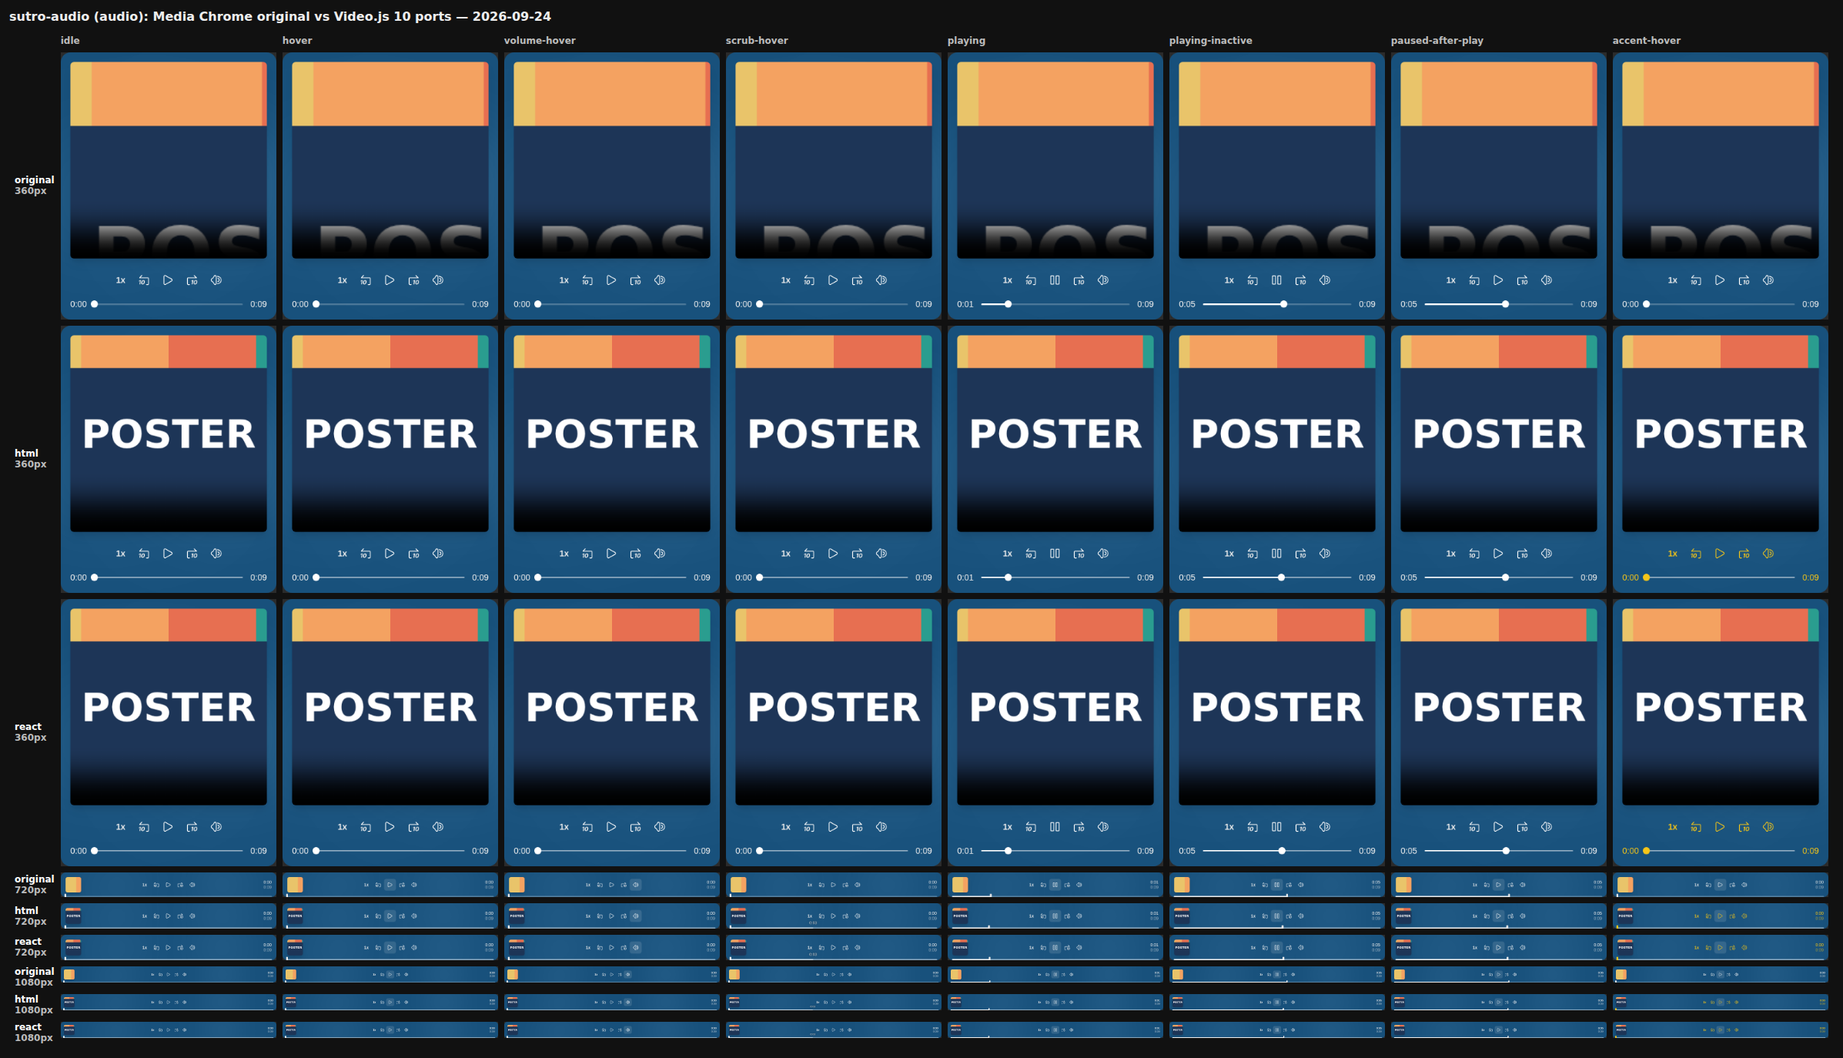
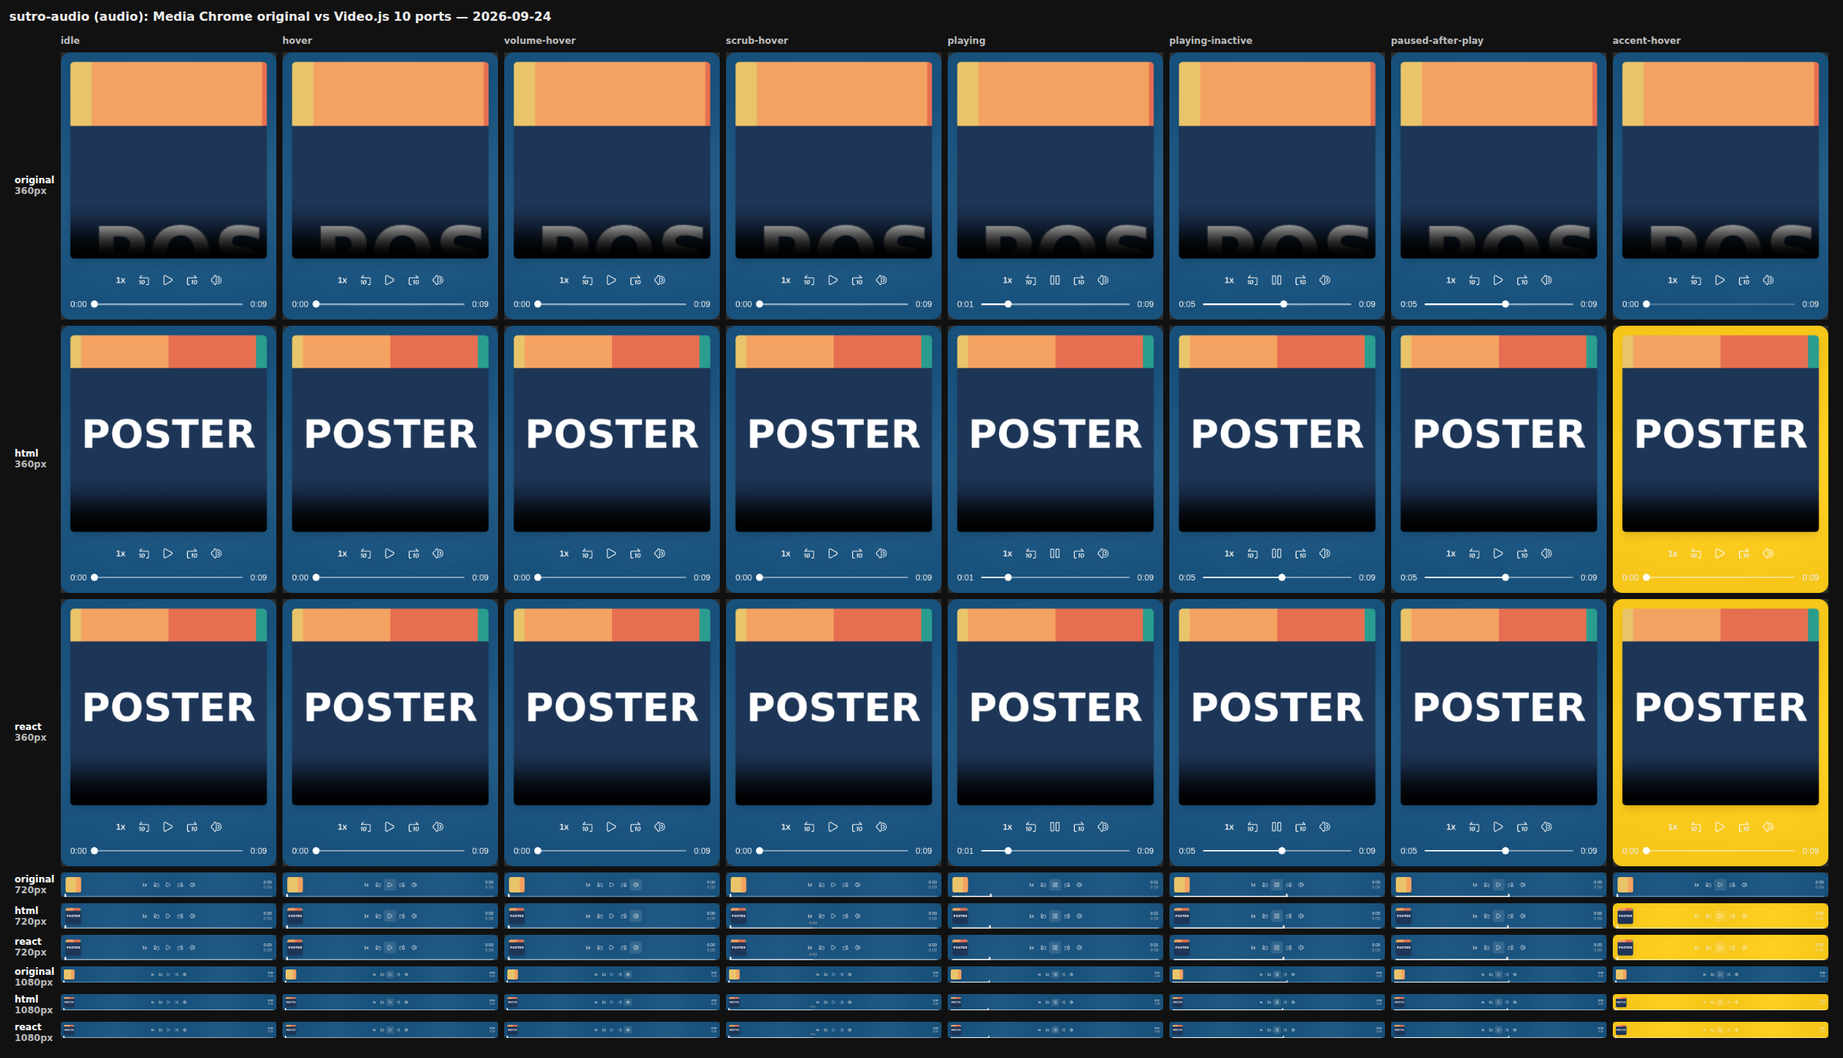
feat(skins): classic theming tokens for halloween, sutro-audio, and tailwind-audio
Each skin reads --media-primary-color, --media-secondary-color, and
--media-accent-color the way its Media Chrome original did, and routes its
brand surface through a private property that --media-accent-color
overrides: the pumpkin body, the sutro-audio card, and the tailwind-audio
scrubber. READMEs gain a Theming table; tests cover the declarations; the
sutro-audio title and byline conditionals are ported.

Claude-Session: https://claude.ai/code/session_013nkm8P1pMuWAvcF5HRNA15

Changed region(s): [[0.8655, 0.3057, 1.0, 0.8253], [0.8655, 0.8559, 1.0, 1.0]]

diff --git a/skins/sutro-audio/src/skin.css b/skins/sutro-audio/src/skin.css
@@ -7,20 +7,26 @@
  * - every rule is scoped under `.ps-sutro-audio` so several skins can share a page;
  * - media is matched twice, as a light-DOM child (React) and as slotted content (HTML);
  * - state comes from the data attributes the Video.js primitives reflect, never from tag names;
- * - `--media-accent-color` is the public theming token; the theme's own colours are the fallbacks.
+ * - `--media-accent-color` recolours the card, the theme's brand blue (ahead of `--media-secondary-color`, the token the
+ *   original read for it); `--media-primary-color` and `--media-text-color` keep the original's roles.
  *
  * Sizes come from the original's `--base: 20px` scale and media-chrome's control styles: 40px buttons and 40px bar,
  * 14px bold button text, 14px times, 13px preview time, 16px card radius, 16px padding.
  */
 
 .ps-sutro-audio {
-  /* Public tokens first, then the theme's own defaults as fallbacks. */
-  --ps-primary: var(--media-accent-color, var(--media-primary-color, #fff));
-  --ps-text: var(--media-accent-color, var(--media-text-color, var(--media-primary-color, rgb(238 238 238))));
-  --ps-range: var(--media-accent-color, var(--media-primary-color, rgb(238 238 238)));
-  /* The small scrubber's white is its own, not the primary colour; only the accent overrides it. */
-  --ps-small-range: var(--media-accent-color, #fff);
-  --ps-secondary: var(--media-secondary-color, #17507b);
+  /*
+   * The theme's brand colour: the deep-blue card. The original coloured it with `--media-secondary-color`; the accent
+   * goes first so one colour re-themes the skin.
+   */
+  --ps-brand: var(--media-accent-color, var(--media-secondary-color, #17507b));
+  /* The original's icon and title colour. */
+  --ps-primary: var(--media-primary-color, #fff);
+  /* media-chrome's text (times, rate, preview) and default range colour, with its own #eee fallback. */
+  --ps-text: var(--media-text-color, var(--media-primary-color, rgb(238 238 238)));
+  --ps-range: var(--media-primary-color, rgb(238 238 238));
+  /* The small scrubber's fill and thumb: fixed white in the original, not the primary colour. */
+  --ps-small-range: #fff;
   --ps-font-family: var(--media-font-family, Roboto, "helvetica neue", "segoe ui", arial, sans-serif);
   --ps-base: 20px;
   --ps-focus-ring: inset 0 0 0 2px rgb(27 127 204 / 0.9);
@@ -37,7 +43,7 @@
   /* A dark card in any page scheme: native parts (focus, form controls) follow it, not the page. */
   color-scheme: dark;
   border-radius: var(--media-border-radius, 16px);
-  background: var(--ps-secondary);
+  background: var(--ps-brand);
   color: var(--ps-text);
   font-family: Roboto, Arial, sans-serif;
   font-size: calc(0.75 * var(--ps-base));

diff --git a/skins/halloween/src/skin.css b/skins/halloween/src/skin.css
@@ -7,7 +7,8 @@
  * - every rule is scoped under `.ps-halloween`, through `:where()` so the scope adds no specificity;
  * - media is matched twice, as a light-DOM child (React) and as slotted content (HTML);
  * - state comes from the data attributes the Video.js primitives reflect, never from tag names;
- * - `--media-accent-color` is the public theming token; the theme's own colours are the fallbacks.
+ * - `--media-accent-color` is the public theming token: it recolours the pumpkin (the theme's brand orange) and the
+ *   spun web; the theme's own colours are the fallbacks.
  *
  * Sizes come from the media-chrome theme and the media-chrome element defaults it inherits: a 44px bar, 14px buttons
  * (17px from 384px) with 10px padding, a 50px cobweb track inset 30px either side, and an 80 × 24px volume range with
@@ -15,6 +16,11 @@
  */
 
 .ps-halloween {
+  /*
+   * The theme's brand colour, the pumpkin's orange (the artwork's `fill="#FF8000"`). The original never let a token
+   * reach it; the accent does here, so one colour re-themes the skin.
+   */
+  --ps-brand: var(--media-accent-color, #ff8000);
   /* The theme's `--_primary-color`: the carved face, and the text colour of the theme's host. */
   --ps-primary: var(--media-primary-color, #000);
   /*
@@ -192,6 +198,11 @@
   height: 5em;
   fill: var(--ps-primary);
   transform: translateY(-0.5em);
+}
+
+/* Outranks the path's own `fill="#FF8000"`, which stays as the no-stylesheet fallback. */
+:where(.ps-halloween) .ps-pumpkin-body {
+  fill: var(--ps-brand);
 }
 
 :where(.ps-halloween) .ps-icon-play,

diff --git a/skins/halloween/src/react/index.tsx b/skins/halloween/src/react/index.tsx
@@ -94,6 +94,7 @@ export function HalloweenSkin({ children, className, ...rest }: HalloweenSkinPro
               >
                 <g>
                   <path
+                    className="ps-pumpkin-body"
                     fill="#FF8000"
                     fillRule="evenodd"
                     d="M21.252 11.127c-2.784.412-6.001 1.646-7.288 2.816-1.761 1.603-3.986 4.736-5.337 7.51-.653 1.36-.717 1.35-.41-.053.505-2.278 1.412-4.04 3.322-6.476.442-.57.833-1.15.864-1.297.275-1.076-2.658-.844-5.178.411-2.932 1.466-5.369 4.42-6.54 7.921C.18 23.478 0 24.669 0 26.463c0 5.811 1.888 11.517 4.862 14.702.95 1.013 1.74 1.635 2.869 2.226 1.086.57 1.898.843 3.154 1.065.759.126 1.096.242 1.518.517 2.331 1.518 5.274 2.183 8.3 1.856 1.056-.116 1.214-.105 2.058.105 1.023.254 1.909.232 2.794-.073.422-.148.644-.148 1.55-.053 1.446.158 2.353.148 3.682-.053 1.74-.253 3.407-.875 4.799-1.782.422-.275.76-.39 1.519-.517 3.765-.644 6.58-2.995 8.553-7.14 1.54-3.249 2.331-6.93 2.342-10.853.01-1.846-.2-3.112-.76-4.715-1.17-3.301-3.596-6.254-6.244-7.583-.896-.454-2.32-.802-3.111-.76l-.601.032.58.306c1.234.643 2.363 2.204 2.995 4.124.623 1.845 1.023 4.651 1.002 6.898l-.01 1.223-.148-1.181c-.169-1.382-.58-3.301-.96-4.451-.358-1.076-1.17-2.785-1.73-3.607-1.054-1.582-2.89-3.112-4.535-3.797-.843-.348-1.867-.623-2.352-.623h-.295l.327.37c.76.864 1.371 2.731 1.635 5.01l.074.58-.338-.58c-1.519-2.637-2.848-4.082-4.767-5.2-1.783-1.034-3.017-1.35-5.4-1.392-.981-.022-1.93-.01-2.11.01ZM19 27.6a4 4 0 1 1-8 0 4 4 0 0 1 8 0Zm14.5 3.1a4.1 4.1 0 1 0 0-8.2 4.1 4.1 0 0 0 0 8.2Z"

diff --git a/skins/halloween/src/html/template.html b/skins/halloween/src/html/template.html
@@ -41,6 +41,7 @@
           <svg class="ps-icon ps-pumpkin" aria-hidden="true" width="48" height="48" fill="none" viewBox="0 0 48 48">
             <g>
               <path
+                class="ps-pumpkin-body"
                 fill="#FF8000"
                 fill-rule="evenodd"
                 d="M21.252 11.127c-2.784.412-6.001 1.646-7.288 2.816-1.761 1.603-3.986 4.736-5.337 7.51-.653 1.36-.717 1.35-.41-.053.505-2.278 1.412-4.04 3.322-6.476.442-.57.833-1.15.864-1.297.275-1.076-2.658-.844-5.178.411-2.932 1.466-5.369 4.42-6.54 7.921C.18 23.478 0 24.669 0 26.463c0 5.811 1.888 11.517 4.862 14.702.95 1.013 1.74 1.635 2.869 2.226 1.086.57 1.898.843 3.154 1.065.759.126 1.096.242 1.518.517 2.331 1.518 5.274 2.183 8.3 1.856 1.056-.116 1.214-.105 2.058.105 1.023.254 1.909.232 2.794-.073.422-.148.644-.148 1.55-.053 1.446.158 2.353.148 3.682-.053 1.74-.253 3.407-.875 4.799-1.782.422-.275.76-.39 1.519-.517 3.765-.644 6.58-2.995 8.553-7.14 1.54-3.249 2.331-6.93 2.342-10.853.01-1.846-.2-3.112-.76-4.715-1.17-3.301-3.596-6.254-6.244-7.583-.896-.454-2.32-.802-3.111-.76l-.601.032.58.306c1.234.643 2.363 2.204 2.995 4.124.623 1.845 1.023 4.651 1.002 6.898l-.01 1.223-.148-1.181c-.169-1.382-.58-3.301-.96-4.451-.358-1.076-1.17-2.785-1.73-3.607-1.054-1.582-2.89-3.112-4.535-3.797-.843-.348-1.867-.623-2.352-.623h-.295l.327.37c.76.864 1.371 2.731 1.635 5.01l.074.58-.338-.58c-1.519-2.637-2.848-4.082-4.767-5.2-1.783-1.034-3.017-1.35-5.4-1.392-.981-.022-1.93-.01-2.11.01ZM19 27.6a4 4 0 1 1-8 0 4 4 0 0 1 8 0Zm14.5 3.1a4.1 4.1 0 1 0 0-8.2 4.1 4.1 0 0 0 0 8.2Z"

diff --git a/skins/halloween/tests/skin.test.ts b/skins/halloween/tests/skin.test.ts
@@ -91,6 +91,14 @@ describe('skin.css', () => {
     expect(css).toContain('var(--media-accent-color');
   });
 
+  it('declares the brand orange on the root from the accent token and paints the pumpkin with it', () => {
+    const rootRule = css.match(/^\.ps-halloween \{([\s\S]*?)^\}/m)?.[1] ?? '';
+
+    expect(rootRule).toMatch(/--ps-brand:\s*var\(--media-accent-color,\s*#ff8000\);/);
+    expect(css).toMatch(/\.ps-pumpkin-body \{\s*fill: var\(--ps-brand\);/);
+    expect(template).toContain('class="ps-pumpkin-body"');
+  });
+
   it('styles the media both as a light-DOM child and as slotted content', () => {
     expect(css).toContain('.ps-halloween > video');
     expect(css).toContain('.ps-halloween ::slotted(video)');

diff --git a/skins/tailwind-audio/src/skin.css b/skins/tailwind-audio/src/skin.css
@@ -22,8 +22,12 @@
  */
 
 .ps-tailwind-audio {
-  /* Public tokens first, then the theme's own defaults as fallbacks. */
+  /*
+   * The theme's brand colour, the indigo scrubber fill and thumb. The original already routed it through the accent
+   * (its Tailwind `accent` colour), so this is the original's own token and default.
+   */
   --ps-accent: var(--media-accent-color, rgb(79 70 229));
+  /* The bar and the thumb ring: the Tailwind `secondary` colour and the ranges' own ring default. */
   --ps-secondary: var(--media-secondary-color, #fff);
   --ps-thumb-ring: var(--media-secondary-color, rgb(255 255 255 / 0.9));
   --ps-font-family: var(--media-font-family, "helvetica neue", "segoe ui", roboto, arial, sans-serif);

diff --git a/skins/sutro-audio/tests/skin.test.ts b/skins/sutro-audio/tests/skin.test.ts
@@ -76,6 +76,13 @@ describe('skin.css', () => {
     expect(css).toContain('var(--media-accent-color');
   });
 
+  it('declares the brand blue on the root from the accent token and paints the card with it', () => {
+    const rootRule = css.match(/^\.ps-sutro-audio \{([\s\S]*?)^\}/m)?.[1] ?? '';
+
+    expect(rootRule).toMatch(/--ps-brand:\s*var\(--media-accent-color,\s*var\(--media-secondary-color,\s*#17507b\)\);/);
+    expect(rootRule).toMatch(/background:\s*var\(--ps-brand\);/);
+  });
+
   it('styles the media both as a light-DOM child and as slotted content', () => {
     expect(css).toContain('.ps-sutro-audio > audio');
     expect(css).toContain('.ps-sutro-audio ::slotted(audio)');

diff --git a/skins/tailwind-audio/tests/skin.test.ts b/skins/tailwind-audio/tests/skin.test.ts
@@ -76,6 +76,12 @@ describe('skin.css', () => {
     expect(css).toContain('var(--media-accent-color');
   });
 
+  it('declares the brand indigo on the root from the accent token', () => {
+    const rootRule = css.match(/^\.ps-tailwind-audio \{([\s\S]*?)^\}/m)?.[1] ?? '';
+
+    expect(rootRule).toMatch(/--ps-accent:\s*var\(--media-accent-color,\s*rgb\(79 70 229\)\);/);
+  });
+
   it('ships plain CSS, with no Tailwind directives or utility class names left over', () => {
     expect(css).not.toMatch(/@(?:tailwind|apply|config|layer|theme|source)\b/);
     expect(css).not.toMatch(/--tw-/);

diff --git a/docs/porting/friction/sutro-audio.md b/docs/porting/friction/sutro-audio.md
@@ -186,3 +186,56 @@ React rows are identical to each other within timing noise. The artwork box diff
 ## Proposed best-practice additions
 
 Merged into [best-practices.md](../best-practices.md) on 2026-09-24.
+
+## Round 2
+
+Date: 2026-09-24. Composite regenerated: [`../screens/sutro-audio.png`](../screens/sutro-audio.png).
+
+### Tokens
+
+| Token | Surface | Default | Original |
+| --- | --- | --- | --- |
+| `--media-accent-color` | Card background (`--ps-brand`) | `#17507b` (through `--media-secondary-color`) | Never read |
+| `--media-secondary-color` | Card background | `#17507b` | Same |
+| `--media-primary-color` | Icon strokes, title, byline (`#fff`); times, rate, wide scrubber fill and thumb, preview time (`rgb(238 238 238)`) | as listed | Same (the second group through media-chrome's defaults) |
+| `--media-text-color` | Times, rate, preview time, seek numbers | `rgb(238 238 238)` | Same (media-chrome's text) |
+| `--media-font-family` | Buttons, times, title, byline | `Roboto, "helvetica neue", "segoe ui", arial, sans-serif` | Same |
+| `--media-border-radius`, `--media-object-position` | Card corners; artwork crop | `16px`; `center` | Port-only knobs (the original fixed 16px) |
+
+The theme's dominant brand colour is the deep-blue card, so the root declares `--ps-brand: var(--media-accent-color,
+var(--media-secondary-color, #17507b))` and paints the card with it. This **replaces the round-1 mapping**, which put
+the accent in front of the primary colour (icons, title, times, both scrubbers). The two cannot share one colour: an
+accent card with accent icons would draw the icons in the card's own colour. Icons and text therefore go back to the
+original's `--media-primary-color` / `--media-text-color` roles, and the small scrubber's fill and thumb go back to
+the original's fixed white. The trade-off: a light accent (the harness's `#f5c518`) gives white icons low contrast. The
+README tells users to pick a dark enough colour or set `--media-primary-color` as well. Setting
+`--media-secondary-color` alone is unchanged from the original.
+
+Verified: the `accent-hover` column shows a `#f5c518` card in both ports (the original stays blue, since it never read
+the accent). A scratch page (`scratchpad/accent/`, `--media-accent-color: #8a2be2`) showed a purple card at 1010px (row
+layout) and 360px (stacked). Blobs, gradient, icons and scrubbers were unchanged, in the HTML edition.
+
+### Template conditionals
+
+| Branch | Port |
+| --- | --- |
+| `<template if="mediatitle">` → `h1.title` | Ported: `media-title` / `Title` render nothing when the player has no `content-title` / `title` (React `Title` returns `null` while `hidden`). |
+| `<template if="mediabyline">` → `h2.byline` | Ported: the HTML `byline` slot is empty without slotted content; React renders `.ps-byline` only when the `byline` prop is set. |
+
+Checked on the scratch page without `content-title` or a byline: the text block is empty and the rest of the layout
+matches the titled card, as in the original, where the `.info-text` wrapper and its padding stay.
+
+### Reduced motion
+
+The original has no `prefers-reduced-motion` guard on the play bounce, pause squash, mute wipe or its transitions, and
+the port has none (parity).
+
+### Scope cuts
+
+None new. The controller attributes stay out, as in round 1.
+
+### New v10 gaps
+
+None. The round-1 upstream items (byline metadata, poster as persistent artwork, configurable rates, slider pointer
+highlight) still stand.
+

diff --git a/docs/porting/friction/halloween.md b/docs/porting/friction/halloween.md
@@ -152,3 +152,43 @@ Inventory of `template.html`:
 ## Proposed best-practice additions
 
 Merged into [best-practices.md](../best-practices.md) on 2026-09-24.
+
+## Round 2
+
+Date: 2026-09-24. Composite regenerated: [`../screens/halloween.png`](../screens/halloween.png).
+
+### Tokens
+
+| Token | Surface | Default | Original |
+| --- | --- | --- | --- |
+| `--media-accent-color` | Pumpkin body (`--ps-brand`, `.ps-pumpkin-body`) | `#ff8000` | Never consulted; the artwork's `fill="#FF8000"` was fixed |
+| `--media-accent-color` | Spun (played) web (`--ps-accent`, mask over the original SVG) | `#fff` | Read into `--_accent-color` (`#fff`), never used |
+| `--media-primary-color` | Carved face while paused; preview time (under `--media-text-color`) | `#000`; `rgb(238 238 238)` | Same |
+| `--media-text-color` | Preview time | `rgb(238 238 238)` | Same (media-chrome's text displays) |
+| `--media-secondary-color` | Nothing | none | Fed `--media-preview-time-background`, which the theme overrode to transparent on the next line |
+| `--media-font-family`, `--media-border-radius`, `--media-object-fit`, `--media-object-position` | Preview time; corners; media and poster fit | media-chrome defaults | Same |
+
+The brand colour is the pumpkin's orange, declared once on the root as `--ps-brand: var(--media-accent-color,
+#ff8000)`. The pumpkin path keeps its `fill="#FF8000"` attribute (the look without the stylesheet) and a class rule
+outranks it. The round-1 wiring of the accent to the spun web stays: the original's own `#fff` accent default is the
+web's white, so an unset accent renders exactly as before. Set, one colour now recolours both the pumpkin and the web.
+The stem (`#0bb037`), lit face (`#ffe194`), wax, flame and glow (`#ffb319`, `#f88f01`) stay fixed artwork. The composite's
+`accent-hover` column shows the pumpkin in `#f5c518` in both ports and orange in the original, which is the intended
+difference. A scratch page (`scratchpad/accent/`, `--media-accent-color: #8a2be2`, seeked to 4s) showed a purple
+pumpkin and purple spun web, with everything else unchanged.
+
+### Template conditionals and reduced motion
+
+- No `<template if>` branches in the original, so no scope cuts.
+- Reduced motion: the original has no `prefers-reduced-motion` guard on `spider-walk`, `candle-anim` or its
+  transitions; the port has none either (parity, as the README says).
+
+### Scope cuts
+
+None new. The controller attributes (`defaultsubtitles`, `defaultduration`, `gesturesdisabled`, `hotkeys`,
+`nohotkeys`) stay out, as in round 1.
+
+### New v10 gaps
+
+None. Recolouring inline SVG artwork needs only a class on the path, since v10 leaves `fill` alone (round-1 note).
+

diff --git a/skins/sutro-audio/README.md b/skins/sutro-audio/README.md
@@ -60,21 +60,25 @@ The card is as wide as its container and follows that width, as the original's `
 
 Give the element (or its container) a height and the card fills it; player.style's own page used 98px from 480px up.
 
-## Customize
+## Theming
 
-| Property | Default | Effect |
+| Token | What it colours | Default |
 | --- | --- | --- |
-| `--media-accent-color` | none | Recolours the icons, text, title, and both scrubbers (falls back to `--media-primary-color`). |
-| `--media-primary-color` | `#fff` | Icons and the title; the times, rate and wide scrubber use it too (default `#eee`). |
-| `--media-text-color` | `#eee` | The times, rate, and preview time. |
-| `--media-secondary-color` | `#17507b` | The card's background. |
-| `--media-font-family` | Roboto, Helvetica Neue, Segoe UI, Arial | Buttons, times, title and byline. |
-| `--media-border-radius` | `16px` | The card's corners. |
-| `--media-object-position` | `center` | Where the artwork is cropped. |
+| `--media-accent-color` | The card's background, the theme's brand blue (ahead of `--media-secondary-color`). | `#17507b` |
+| `--media-secondary-color` | The card's background, as in the original. | `#17507b` |
+| `--media-primary-color` | Icons, title and byline; the times, rate, wide scrubber and preview time too. | `#fff` (icons, title), `rgb(238 238 238)` (the rest) |
+| `--media-text-color` | The times, rate and preview time (ahead of `--media-primary-color`). | `rgb(238 238 238)` |
+| `--media-font-family` | Buttons, times, title and byline. | `Roboto, "helvetica neue", "segoe ui", arial, sans-serif` |
+| `--media-border-radius` | The card's corners. | `16px` |
+| `--media-object-position` | Where the artwork is cropped. | `center` |
 
 ```html
-<sutro-audio-skin style="--media-accent-color: #f5c518; --media-secondary-color: #222">
+<sutro-audio-skin style="--media-accent-color: #5b2a86">
 ```
+
+The original never read `--media-accent-color`; here it recolours the card, so one colour re-themes the skin. The
+icons and text stay white, so pick a colour dark enough to carry them, or set `--media-primary-color` as well. The two
+blurred highlights, the small scrubber's white fill and thumb, and the track tints are the theme's own.
 
 ## Differences from the Media Chrome edition
 

diff --git a/docs/porting/friction/tailwind-audio.md b/docs/porting/friction/tailwind-audio.md
@@ -160,3 +160,38 @@ accent over a 5s fill, and the 447/448px breakpoint edge.
 ## Proposed best-practice additions
 
 Merged into [best-practices.md](../best-practices.md) on 2026-09-24.
+
+## Round 2
+
+Date: 2026-09-24. Composite regenerated: [`../screens/tailwind-audio.png`](../screens/tailwind-audio.png).
+
+### Tokens
+
+| Token | Surface | Default | Original |
+| --- | --- | --- | --- |
+| `--media-accent-color` | Scrubber fill and thumb, both ranges (`--ps-accent`) | `rgb(79 70 229)` (indigo-600) | Same: the Tailwind `accent` colour and both ranges' inline `--media-range-bar-color` / `-thumb-background` |
+| `--media-secondary-color` | Bar background (`--ps-secondary`); thumb ring (`--ps-thumb-ring`) | `#fff`; `rgb(255 255 255 / 0.9)` | Same: Tailwind `secondary` and the ranges' `--media-range-thumb-box-shadow` |
+| `--media-primary-color` | Nothing | none | Nothing reachable: the config's `primary` hook is commented out, the play button pins it to `#fff` inline, and every other text or icon colour is a slate utility that overrides media-chrome's primary-colour default |
+| `--media-font-family` | Times, rate, preview time | `"helvetica neue", "segoe ui", roboto, arial, sans-serif` | Same (media-chrome's text) |
+
+The original already routed its brand colour, the indigo fill and thumb, through `--media-accent-color`, so nothing
+changes in the stylesheet. The root declaration `--ps-accent: var(--media-accent-color, rgb(79 70 229))` is now
+commented as the brand property, the README has a Theming table, and the test asserts the declaration. Verified: the
+`accent-hover` column shows `#f5c518` wherever a fill or thumb is visible (it is 0% in an idle player). A scratch page
+(`scratchpad/accent/`, `--media-accent-color: #8a2be2`, seeked to 4s) showed a purple fill and thumb, with the slate
+and white surfaces unchanged.
+
+### Template conditionals and reduced motion
+
+- No `<template if>` branches in the original, so no scope cuts.
+- Reduced motion: the original has no `motion-safe:`/`motion-reduce:` utilities or media query (only colour and
+  range transitions); the port has none (parity).
+
+### Scope cuts
+
+None new. The controller attributes stay out, as in round 1.
+
+### New v10 gaps
+
+None.
+
